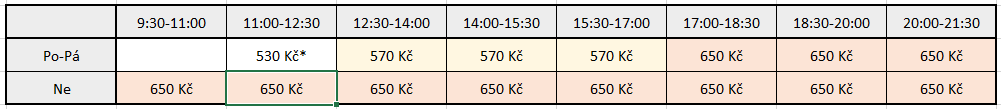
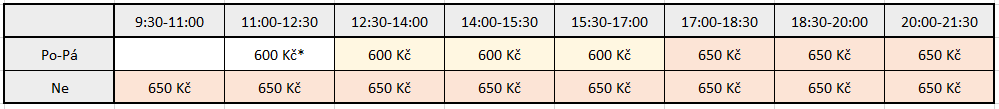
ceny hala 2023

diff --git a/cenyhrani.html b/cenyhrani.html
@@ -87,19 +87,19 @@
 	</div>
 	<div id="pulblok" >
 <br>
-<h2> Zimní sezona – hraní v nafukovací dvojhale sezona 2022/23</h2>
+<h2> Zimní sezona – hraní v nafukovací dvojhale sezona 2023/24</h2>
 <br>
-<p> Zimní halová sezona začíná 24.10.2022 a končí plánovaným uložením haly 9.4.2023. </p>
-<p>K dispozici jsou každý pracovní den a v neděli v době od 12:30 do 21:30 dva antukové kurty v čtyřplášťové nafukovací dvojhale. V ostatních časech je hala provozována pouze při zajištění dostatečné obsazenosti haly a zachování ekonomického provozu (individuální domluva u správce haly).
+<p> Zimní halová sezona začíná 22.10.2023 a končí plánovaným uložením haly 20.4.2024. </p>
+<p>K dispozici jsou každý pracovní den od 12:30 do 22:00 a v neděli v době od 09:30 do 22:00 dva antukové kurty v čtyřplášťové nafukovací dvojhale. V ostatních časech je hala provozována pouze při zajištění dostatečné obsazenosti haly a zachování ekonomického provozu (individuální domluva u správce haly).
 Hraje se v pevně stanovených časových úsecích (jednotkách)  <span class="corcol"> v délce hraní 90 minut  </span> (včetně zametení kurtu). Ceny hracích jednotek spadají do dvou pásem, podle následujícího schématu. </p>
 
 <p><span class="corcol"> Ceny v tabulce jsou uvedeny pro celou 90 minutovou hrací jednotku !  </span></p>
 
 <img src="img/Hranizima.png" width="700" alt="Ceník 2021/22" vspace="20" >
 
-<p> Halu je možné si pronajmout na jednotlivá hraní, nebo na celou sezónu. <span class="corcol"> Celosezónní předplatné </span> je cenově zvýhodněno oproti jednorázovému hraní. Celosezonní 90 minutové sloty (letos 24 hraní x 90 min.) tak lze získat jednorázovou úhradou 13.200,- Kč, resp. 12.600,- Kč pro odpolendní sazbu. Další výhodou sezónní rezervace je, že díky ní máte přednostně zarezervován kurt ve Vámi zvoleném termínu po celou dobu. Volné sloty nabízíme i externím trenérům pro účely trénování mládeže.</p>
+<p> Halu je možné si pronajmout na jednotlivá hraní, nebo na celou sezónu. <span class="corcol"> Celosezónní předplatné </span> je cenově zvýhodněno oproti jednorázovému hraní. Celosezonní 90 minutové sloty (letos 24 hraní x 90 min.) tak lze získat jednorázovou úhradou 13.920,- Kč, resp. 13.320,- Kč pro odpolendní sazbu. Další výhodou sezónní rezervace je, že díky ní máte přednostně zarezervován kurt ve Vámi zvoleném termínu po celou dobu. </p>
 
-<p> Pokud dáváte přednost pouze občasnému hraní, je možné objednávat hraní jednorázově, dle aktuálně volných termínů. Úhrada jednorázového hraní je možná pouze v hotovosti u správce haly.</p>
+<p> Pokud dáváte přednost pouze občasnému hraní, je možné objednávat hraní jednorázově, dle aktuálně volných termínů. Úhrada jednorázového hraní je možná v hotovosti u správce haly, bankovním převodem nebo bankovní kartou.</p>
 
 <p> *) dopolední snížená sazba Po-Pá platí pouze v případě pokud slot navazuje na následný trénink mládeže. </p>
 	</div>
